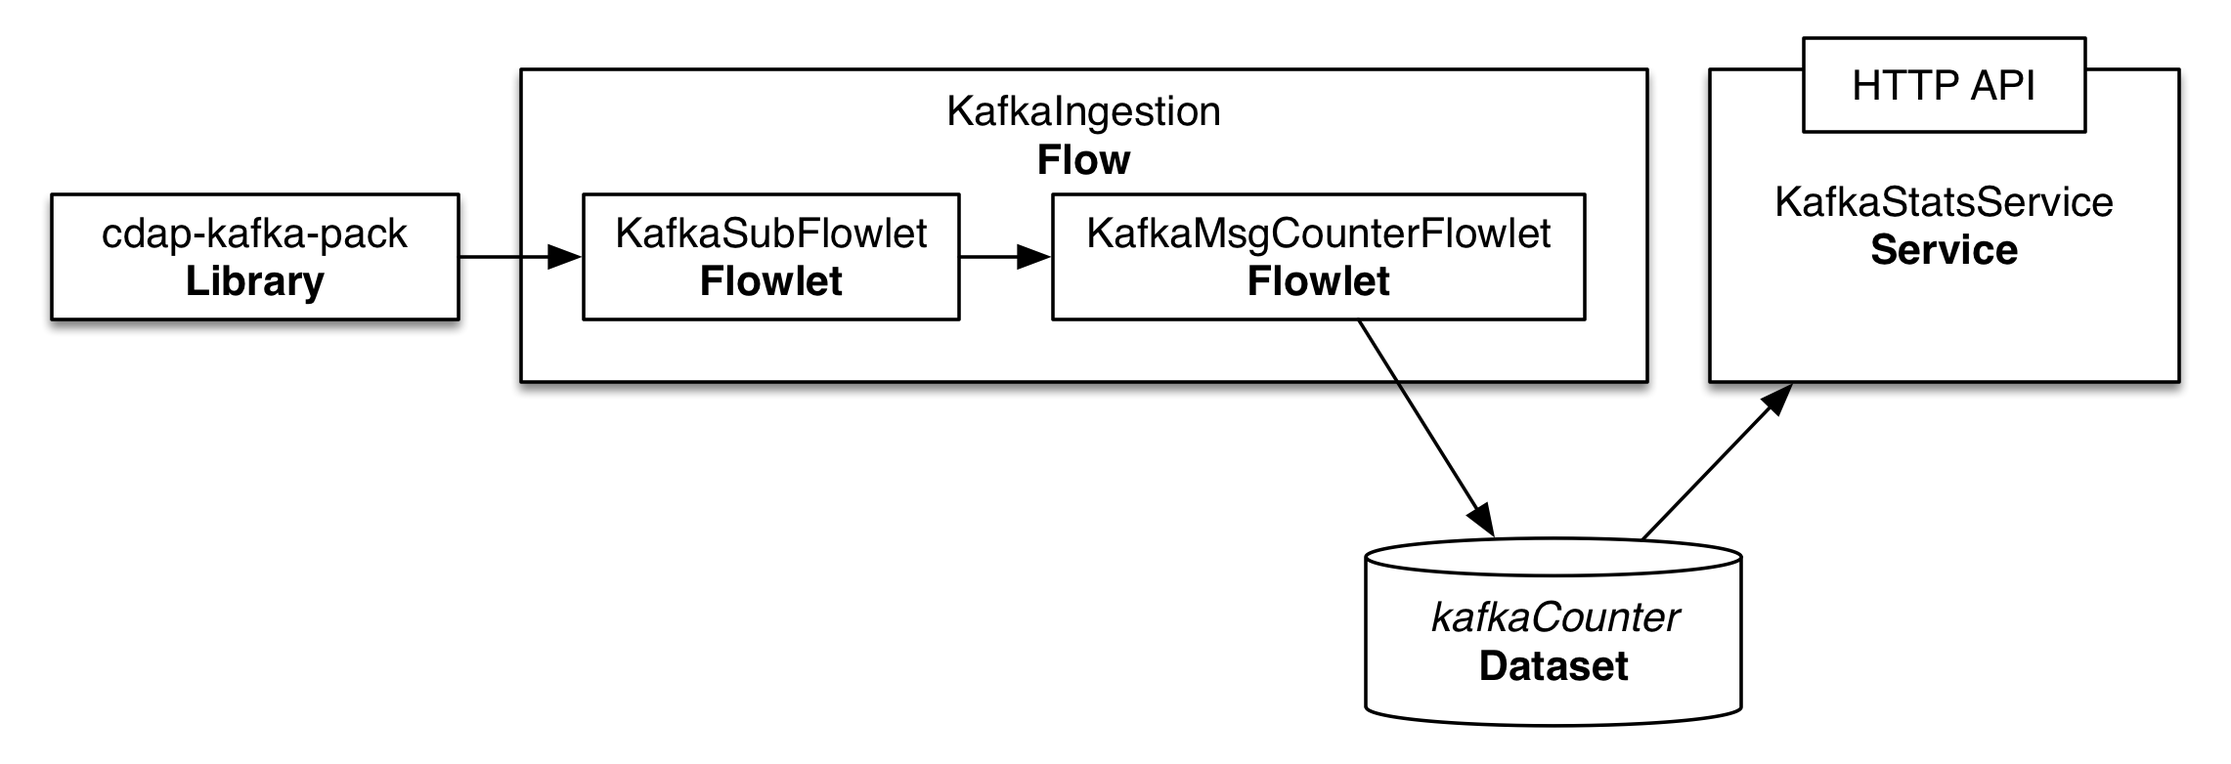
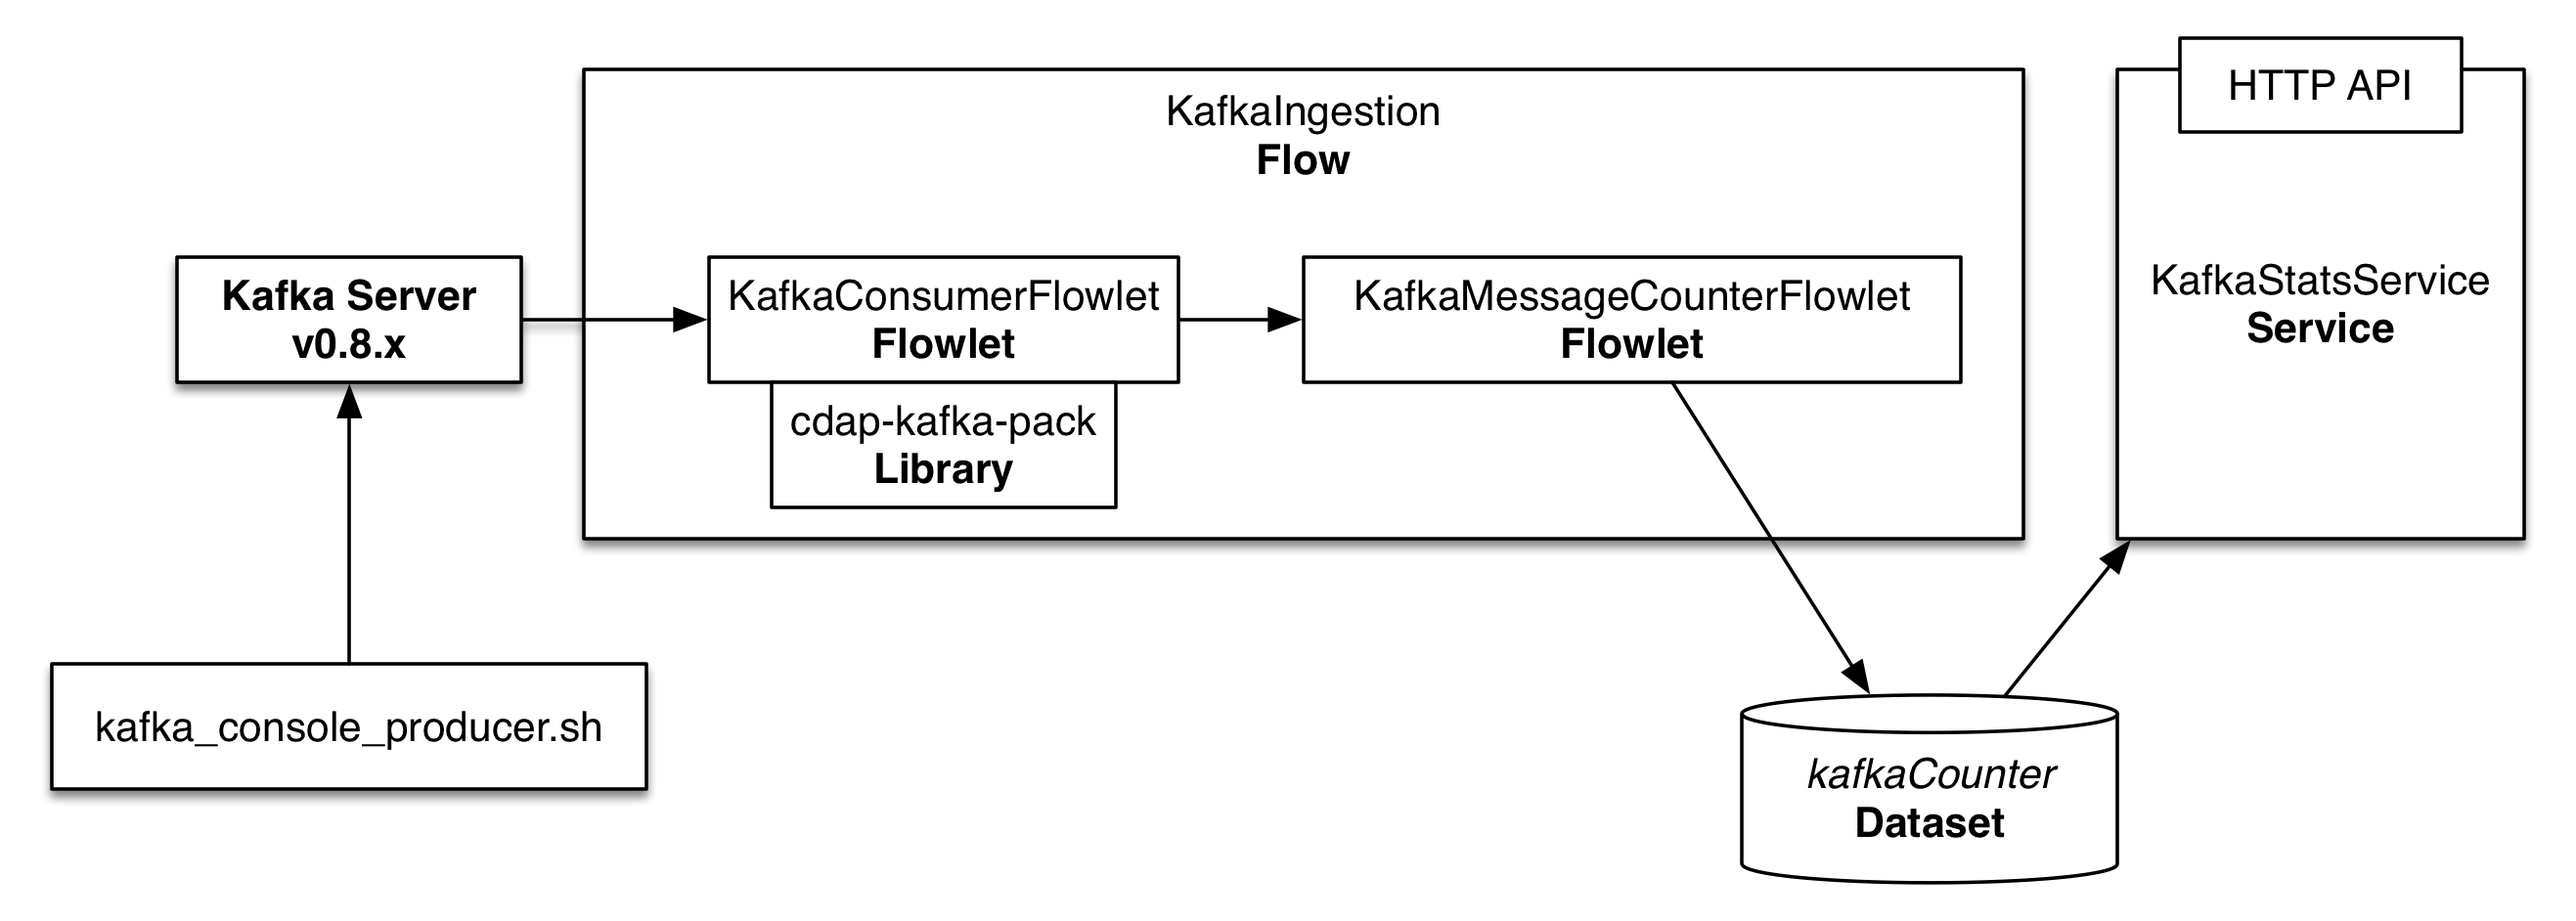
Adding section on publishing messages through Kafka

diff --git a/src/main/java/co/cask/cdap/guides/kafka/KafkaIngestionFlow.java b/src/main/java/co/cask/cdap/guides/kafka/KafkaIngestionFlow.java
@@ -37,8 +37,8 @@ public class KafkaIngestionFlow implements Flow {
       .setName(Constants.FLOW_NAME)
       .setDescription("Subscribes to Kafka messages")
       .withFlowlets()
-        .add(Constants.KAFKA_FLOWLET, new KafkaSubFlowlet())
-        .add(Constants.COUNTER_FLOWLET, new KafkaMsgCounterFlowlet())
+        .add(Constants.KAFKA_FLOWLET, new KafkaConsumerFlowlet())
+        .add(Constants.COUNTER_FLOWLET, new KafkaMessageCounterFlowlet())
       .connect()
         .from(Constants.KAFKA_FLOWLET).to(Constants.COUNTER_FLOWLET)
       .build();

diff --git a/src/main/java/co/cask/cdap/guides/kafka/KafkaMessageCounterFlowlet.java b/src/main/java/co/cask/cdap/guides/kafka/KafkaMessageCounterFlowlet.java
@@ -27,8 +27,8 @@ import org.slf4j.LoggerFactory;
 /**
  * Flowlet to store the statistics of the Messages received.
  */
-public class KafkaMsgCounterFlowlet extends AbstractFlowlet {
-  private static final Logger LOG = LoggerFactory.getLogger(KafkaMsgCounterFlowlet.class);
+public class KafkaMessageCounterFlowlet extends AbstractFlowlet {
+  private static final Logger LOG = LoggerFactory.getLogger(KafkaMessageCounterFlowlet.class);
 
   @UseDataSet(Constants.STATS_TABLE_NAME)
   private KeyValueTable counter;

diff --git a/src/main/java/co/cask/cdap/guides/kafka/KafkaConsumerFlowlet.java b/src/main/java/co/cask/cdap/guides/kafka/KafkaConsumerFlowlet.java
@@ -29,9 +29,9 @@ import java.util.Map;
 /**
  * Kafka Subscription Flowlet.
  */
-public class KafkaSubFlowlet extends Kafka08ConsumerFlowlet<byte[], String> {
+public class KafkaConsumerFlowlet extends Kafka08ConsumerFlowlet<byte[], String> {
 
-  private static final Logger LOG = LoggerFactory.getLogger(KafkaSubFlowlet.class);
+  private static final Logger LOG = LoggerFactory.getLogger(KafkaConsumerFlowlet.class);
 
   @UseDataSet(Constants.OFFSET_TABLE_NAME)
   private KeyValueTable offsetStore;

diff --git a/README.md b/README.md
@@ -1,11 +1,12 @@
 Consuming data from Kafka
 =========================
-Consuming data from a [Kafka](http://kafka.apache.org/) topic and processing the messages received in realtime is a common part of many big data applications. In this guide, you will learn how to accomplish it with the Cask Data Application Platform
-([CDAP](http://cdap.io)).
+Consuming data from a [Kafka](http://kafka.apache.org/) topic and processing the messages received in realtime is 
+a common part of many big data applications. In this guide, you will learn how to accomplish it with the 
+Cask Data Application Platform ([CDAP](http://cdap.io)).
 
 What You Will Build
 -------------------
-You will build a CDAP application that consumes data from a Kafka cluster v0.8.x on a specific Topic and computes the 
+You will build a CDAP application that consumes data from a Kafka cluster v0.8.x on a specific topic and computes the 
 average size of the messages received. You will:
 
 - Build a realtime 
@@ -14,16 +15,18 @@ average size of the messages received. You will:
 - Use the [cdap-kafka-pack library](https://github.com/caskdata/cdap-packs) to build a Flowlet to consume from Kafka;
 - Use a 
   [Dataset](http://docs.cdap.io/cdap/current/en/developers-manual/building-blocks/datasets/index.html)
-  to persist the results of the analysis; and
+  to persist the results of the analysis;
 - Build a 
   [Service](http://docs.cdap.io/cdap/current/en/developers-manual/building-blocks/services.html)
-  to retrieve the analysis results via an HTTP RESTful endpoint.
+  to retrieve the analysis results via an HTTP RESTful endpoint; and 
+- Start a Kafka Server v0.8.x and publish messages to the topic, to which CDAP Application has subscribed.
 
 What You Will Need
 ------------------
 - [JDK 6 or JDK 7](http://www.oracle.com/technetwork/java/javase/downloads/index.html)
 - [Apache Maven 3.0+](http://maven.apache.org/)
 - [CDAP SDK](http://docs.cdap.io/cdap/current/en/developers-manual/getting-started/standalone/index.html)
+- [Kafka v0.8.x](http://kafka.apache.org)
 
 Let’s Build It!
 ---------------
@@ -60,9 +63,9 @@ contents of these files described below):
     ./pom.xml
     ./src/main/java/co/cask/cdap/guides/kafka/KafkaIngestionApp.java
     ./src/main/java/co/cask/cdap/guides/kafka/KafkaIngestionFlow.java
-    ./src/main/java/co/cask/cdap/guides/kafka/KafkaMsgCounterFlowlet.java
+    ./src/main/java/co/cask/cdap/guides/kafka/KafkaConsumerFlowlet.java
+    ./src/main/java/co/cask/cdap/guides/kafka/KafkaMessageCounterFlowlet.java
     ./src/main/java/co/cask/cdap/guides/kafka/KafkaStatsHandler.java
-    ./src/main/java/co/cask/cdap/guides/kafka/KafkaSubFlowlet.java
 
 The application will use the `cdap-kafka-pack` library which includes an implementation of the
 `Kafka08ConsumerFlowlet`, which is designed to work with a 0.8.x Kakfa Cluster. If you want to 
@@ -83,8 +86,8 @@ You'll need to add the correct `cdap-kafka-pack` library, based on your Kafka cl
 </dependencies>
 ```
 
-Create the `KafkaIngestionApp` class which declares that the application
-has a Flow, a Service, and creates two Datasets:
+Create the `KafkaIngestionApp` class which declares that the application has a Flow, a Service, 
+and creates two Datasets:
 
 ```java
 public class KafkaIngestionApp extends AbstractApplication {
@@ -100,7 +103,7 @@ public class KafkaIngestionApp extends AbstractApplication {
 }
 ```
 
-The `KafkaIngestionFlow` connects the `KafkaSubFlowlet` to the `KafkaMsgCounterFlowlet`.
+The `KafkaIngestionFlow` connects the `KafkaConsumerFlowlet` to the `KafkaMessageCounterFlowlet`.
 
 ```java
 public class KafkaIngestionFlow implements Flow {
@@ -111,8 +114,8 @@ public class KafkaIngestionFlow implements Flow {
       .setName(Constants.FLOW_NAME)
       .setDescription("Subscribes to Kafka messages")
       .withFlowlets()
-        .add(Constants.KAFKA_FLOWLET, new KafkaSubFlowlet())
-        .add(Constants.COUNTER_FLOWLET, new KafkaMsgCounterFlowlet())
+        .add(Constants.KAFKA_FLOWLET, new KafkaConsumerFlowlet())
+        .add(Constants.COUNTER_FLOWLET, new KafkaMessageCounterFlowlet())
       .connect()
         .from(Constants.KAFKA_FLOWLET).to(Constants.COUNTER_FLOWLET)
       .build();
@@ -120,12 +123,12 @@ public class KafkaIngestionFlow implements Flow {
 }
 ```
 
-The `KafkaSubFlowlet` subclasses from the `Kafka08ConsumerFlowlet` that is
+The `KafkaConsumerFlowlet` subclasses from the `Kafka08ConsumerFlowlet` that is
 available in the `cdap-kafka-pack` library:
 
 ```java
-public class KafkaSubFlowlet extends Kafka08ConsumerFlowlet<byte[], String> {
-  private static final Logger LOG = LoggerFactory.getLogger(KafkaSubFlowlet.class);
+public class KafkaConsumerFlowlet extends Kafka08ConsumerFlowlet<byte[], String> {
+  private static final Logger LOG = LoggerFactory.getLogger(KafkaConsumerFlowlet.class);
 
   @UseDataSet(Constants.OFFSET_TABLE_NAME)
   private KeyValueTable offsetStore;
@@ -152,12 +155,12 @@ public class KafkaSubFlowlet extends Kafka08ConsumerFlowlet<byte[], String> {
 }
 ```
 
-Messages received by the `KafkaSubFlowlet` are consumed by the `KafkaMsgCounterFlowlet` 
+Messages received by the `KafkaConsumerFlowlet` are consumed by the `KafkaMessageCounterFlowlet` 
 that updates the total number of messages and their total size in the `kafkaCounter` Dataset:
 
 ```java
-public class KafkaMsgCounterFlowlet extends AbstractFlowlet {
-  private static final Logger LOG = LoggerFactory.getLogger(KafkaMsgCounterFlowlet.class);
+public class KafkaMessageCounterFlowlet extends AbstractFlowlet {
+  private static final Logger LOG = LoggerFactory.getLogger(KafkaMessageCounterFlowlet.class);
 
   @UseDataSet(Constants.STATS_TABLE_NAME)
   private KeyValueTable counter;
@@ -194,11 +197,13 @@ public class KafkaStatsHandler extends AbstractHttpServiceHandler {
 }
 ```
 
-### Configuring the `KafkaSubFlowlet`
+### Configuring the `KafkaConsumerFlowlet`
 
-In order to utilize the `KafkaSubFlowlet`, a Kafka zookeeper connection string along with 
-a Kafka topic must be provided as runtime arguments. You can provide these to the `KafkaSubFlowlet` as 
-runtime arguments of the `KafkaIngestionFlow`. The keys of these runtime arguments are (see the Build and Run Application section for how to pass them to the program at start):
+In order to utilize the `KafkaConsumerFlowlet`, a Kafka zookeeper connection string along with 
+a Kafka topic must be provided as runtime arguments. You can provide these to the `KafkaConsumerFlowlet` as 
+runtime arguments of the `KafkaIngestionFlow`. The keys of these runtime arguments are 
+(see the [Build and Run Application](#build-and-run-application) section for information on how to pass 
+them to the program at start):
 
 ```console
 kafka.zookeeper
@@ -221,20 +226,46 @@ If you haven't already started a standalone CDAP installation, start it with the
     cdap.sh start
 
 We can then deploy the application to a standalone CDAP installation and
-start its components (note the runtime arguments as described above in [Configuring the KafkaSubFlowlet](#configuring-the-kafkasubflowlet)):
+start its components (note the runtime arguments as described above in [Configuring the KafkaConsumerFlowlet](#configuring-the-kafkaconsumerflowlet)):
 
     cdap-cli.sh deploy app target/cdap-kafka-ingest-guide-1.0.0.jar
-    curl http://localhost:10000/v2/apps/KafkaIngestionApp/flows/KafkaIngestionFlow/start -d '{"kafka.zookeeper":"127.0.0.1:1234", "kafka.topic":"MyTopic"}'
+    curl http://localhost:10000/v2/apps/KafkaIngestionApp/flows/KafkaIngestionFlow/start -d '{"kafka.zookeeper":"localhost:2181", "kafka.topic":"MyTopic"}'
     curl -X POST http://localhost:10000/v2/apps/KafkaIngestionApp/services/KafkaStatsService/start
     
-Once the Flow is started, Kafka messages are processed as they are published. You can query for
-the average Kafka message size:
+Once the Flow is started, Kafka messages are processed as they are published. Now, lets start Kafka to publish messages to `MyTopic`.
+
+Publish Messages to a Kakfa topic
+---------------------------------
+If you don't have a Kafka v0.8.x running, you can download the binary at [Kafka 0.8.x Download](http://kafka.apache.org/downloads.html).
+Make sure you download v0.8.x since this guide is designed to work with that version. 
+
+Follow the instructions on [Kafka v0.8.x Quickstart](https://kafka.apache.org/08/quickstart.html), to publish messages to `MyTopic`.
+The instructions are repeated below for your convenience (assuming you have download the binary distribution). 
+
+```bash
+tar xzf kafka-<VERSION>.tgz
+cd kafka-<VERSION>
+#Start Zookeeper Server
+bin/zookeeper-server-start.sh config/zookeeper.properties
+#Start Kafka Server
+bin/kafka-server-start.sh config/server.properties
+#Create a new Kafka topic - MyTopic
+bin/kafka-create-topic.sh --zookeeper localhost:2181 --replica 1 --partition 1 --topic MyTopic
+#Send messages on the topic - MyTopic
+bin/kafka-console-producer.sh --broker-list localhost:9092 --topic MyTopic
+```
+Once the kafka-console-producer.sh script is invoked, you can type messages on the console and every line is published as a message
+to `MyTopic`. Now, go ahead and publish few messages.
+
+Query Results
+-------------
+You can query for the average Kafka message size:
 
     curl http://localhost:10000/v2/apps/KafkaIngestionApp/services/KafkaStatsService/methods/v1/avgSize
 
 Example output:
 
-    14
+    6
 
 Share and Discuss!
 ------------------
